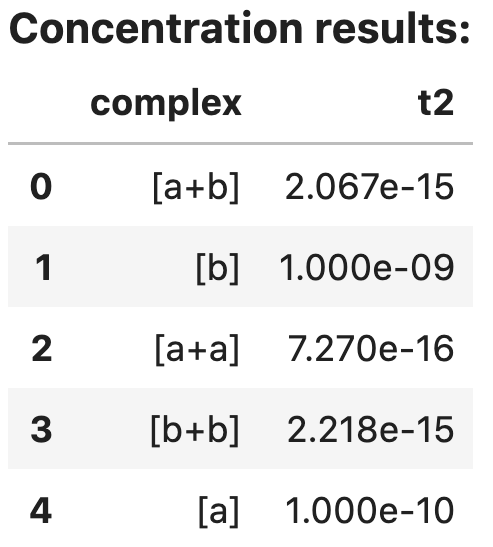
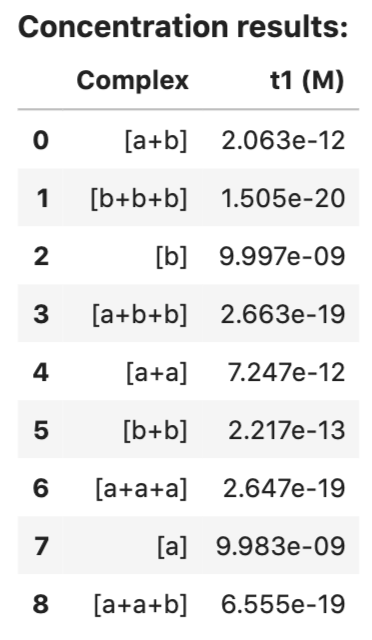
Revise table output and add .complexes, .tubes info

diff --git a/sources/analysis.md b/sources/analysis.md
@@ -85,7 +85,7 @@ model1 = Model()
 tube_results = tube_analysis(tubes=[t1, t2], model=model1)
 ```
 
-`tube_analysis` returns an `AnalysisResult` object that can be viewed as a table in a Jupyter notebook: 
+`tube_analysis` returns an `AnalysisResult` object that can be viewed as a table in a Jupyter notebook:
 
 ```python
 tube_results
@@ -93,7 +93,7 @@ tube_results
 
 > <img src="/figs/tube-analysis-output.png" alt="Tube analysis output" title="Example tube analysis output" width="280" />
 
-For each complex in the ensemble, the [partition function](definitions.md#partition-function) and [complex free energy](definitions.md#complex-free-energy) (units of kcal/mol) are displayed. For each tube, the [equilibrium complex concenration](definitions.md#equilibrium-complex-concentration) of each complex in the tube is displayed (units of M). 
+For each complex in the ensemble, the [partition function](definitions.md#partition-function) and [complex free energy](definitions.md#complex-free-energy) (units of kcal/mol) are displayed. For each tube, the [equilibrium complex concenration](definitions.md#equilibrium-complex-concentration) of each complex in the tube is displayed (units of M).
 
 ---
 
@@ -101,9 +101,19 @@ Optionally, additional quantities are calculated for each complex in the specifi
 
 ```python
 tube_results2 = tube_analysis(tubes=[t1, t2], model=model1,
-    compute=['pairs', 'mfe', 'sample'],
+    compute=['pairs', 'mfe', 'sample', 'ensemble_size'],
     options={'num_sample': 100}) # max_size=1 default
 ```
+
+Only `mfe` and `ensemble_size` results show up in the resultant table, as non-scalar quantities like pair probabilities cannot be summarized this way:
+
+```python
+tube_results2
+```
+
+Output:
+
+> <img src="/figs/tube-analysis-output-2.png" alt="Tube analysis output" title="Example tube analysis output" width="480" />
 
 If desired, the results of a `tube_analysis` job can alternatively be calculated in two steps:
 
@@ -251,7 +261,12 @@ result.save_text('my_result.txt')
 
 ### Programmatic access
 
-More detailed results can also be displayed by programmatic access into the `AnalysisResult` object. The result of `tube_analysis` is an `AnalysisResult` with fields `.complexes` and `.tubes`. For convenience, you may index into the result via a `Tube` :
+More detailed results can also be displayed by programmatic access into the `AnalysisResult` object. The result of `tube_analysis` is an `AnalysisResult` with two fields:
+
+- `.complexes`: a Python `dict` mapping each `Complex` to a [`ComplexResult`](#individual-complex-results)
+- `.tubes`: a Python `dict` mapping each `Tube` to a [`TubeResult`](#individual-tube-results)
+
+ For convenience, you may index into the result via a `Tube` :
 
 <!-- I'm not sure this indexing is a good idea. Maybe better to just use the `complexes` and `tubes` fields separately. -->
 
@@ -261,11 +276,6 @@ result[t1] # --> TubeResult
 result[t1].complex_concentrations  # --> [1.5e-10]
 result[t1].ensemble_pair_fractions # --> [[1.0, 0.0], [0.0, 1.0]]
 ```
-
-A `TubeResult` contains the following fields:
-
-- `complex_concentrations`: a `dict` from `Complex` to its (`float`) equilibrium concentration in molar.
-- `ensemble_pair_fractions`: a square matrix of equilibrium base pairing probablities averaged across complexes. The row and column index refers to the concatenated base index formed by concatenating the strands of the input `Tube` (in order).
 
 ---
 
@@ -350,7 +360,9 @@ The concentration of [a] is 9.99e-07
 
 ---
 
-In full, `ComplexResult` contains the following fields, closely mirroring the `compute` keywords used. If a quantity was not computed, it is set to `None`.
+### Individual complex results
+
+A `ComplexResult` holds all complex ensemble quantities that were calculated in a `tube_analysis` or `complex_analysis` calculation. In full, this class contains the following fields, closely mirroring the `compute` keywords used. If a quantity was not computed, it is set to `None`.
 
 - `pfunc`: complex partition function (held as a `decimal.Decimal`). Convert to a `float` via `float(pf)` or calculate the logarithm via `float(pf.log())`
 - `free_energy`: the complex free energy in kcal/mol (held as a `float`)
@@ -365,3 +377,11 @@ In full, `ComplexResult` contains the following fields, closely mirroring the `c
 
 ---
 
+### Individual tube results
+
+A `TubeResult` holds all tube ensemble quantities that were calculated in a `tube_analysis` or `complex_concentrations` calculation. This class contains the following fields:
+
+- `complex_concentrations`: a `dict` from `Complex` to its (`float`) equilibrium concentration in molar.
+- `ensemble_pair_fractions`: a square matrix of equilibrium base pairing probablities averaged across complexes. The row and column index refers to the concatenated base index formed by concatenating the strands of the input `Tube` (in order). This field is `None` if  pair probabilities were not calculated.
+
+---
